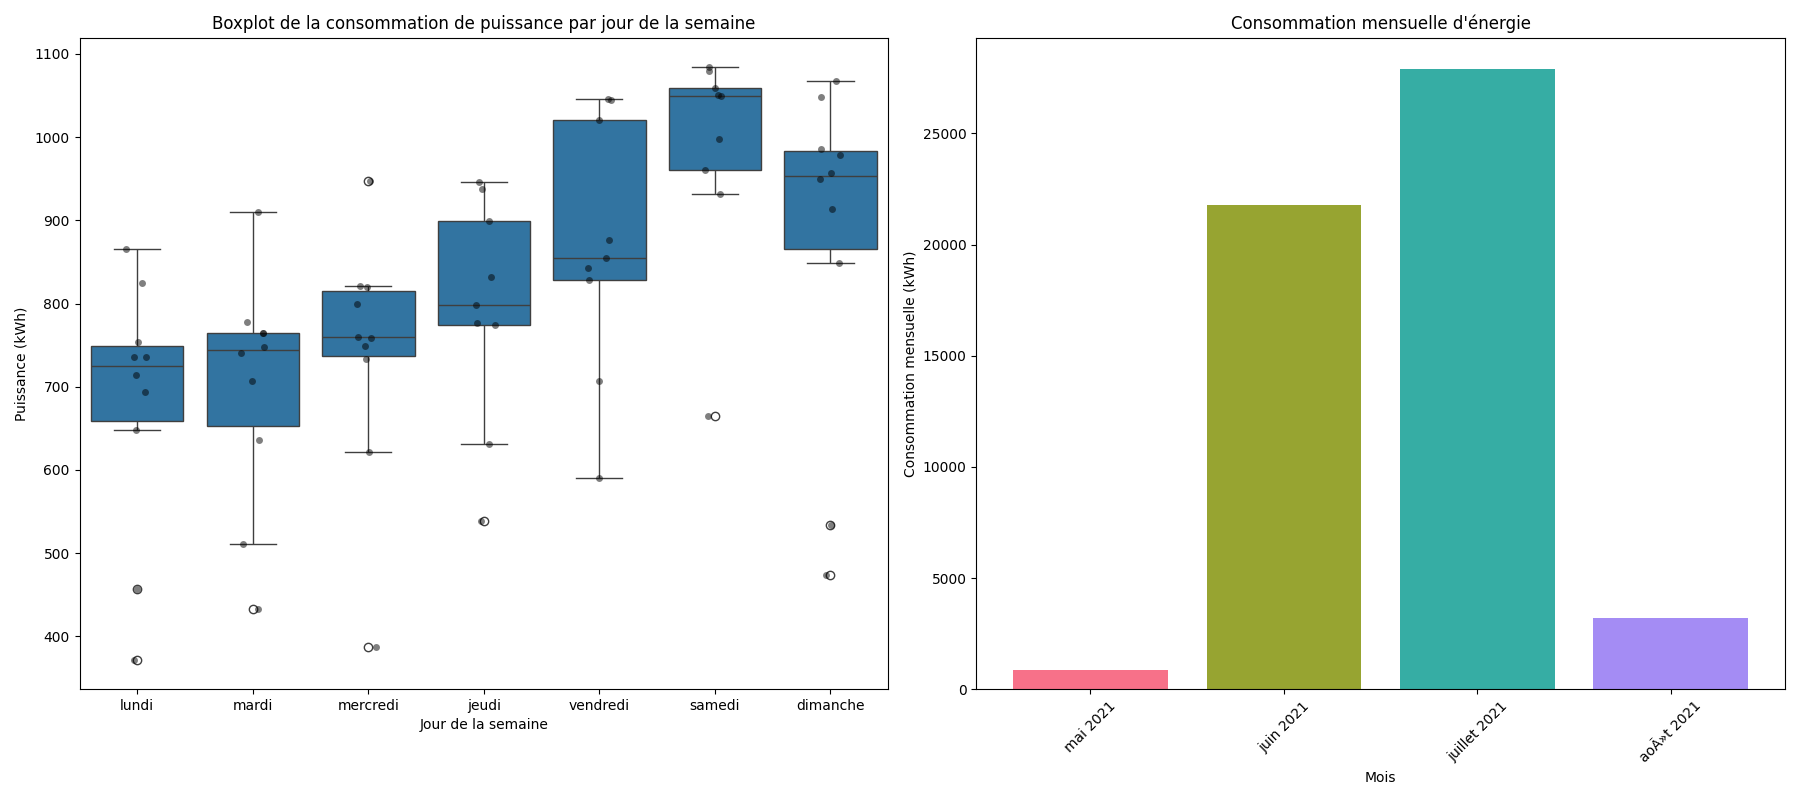
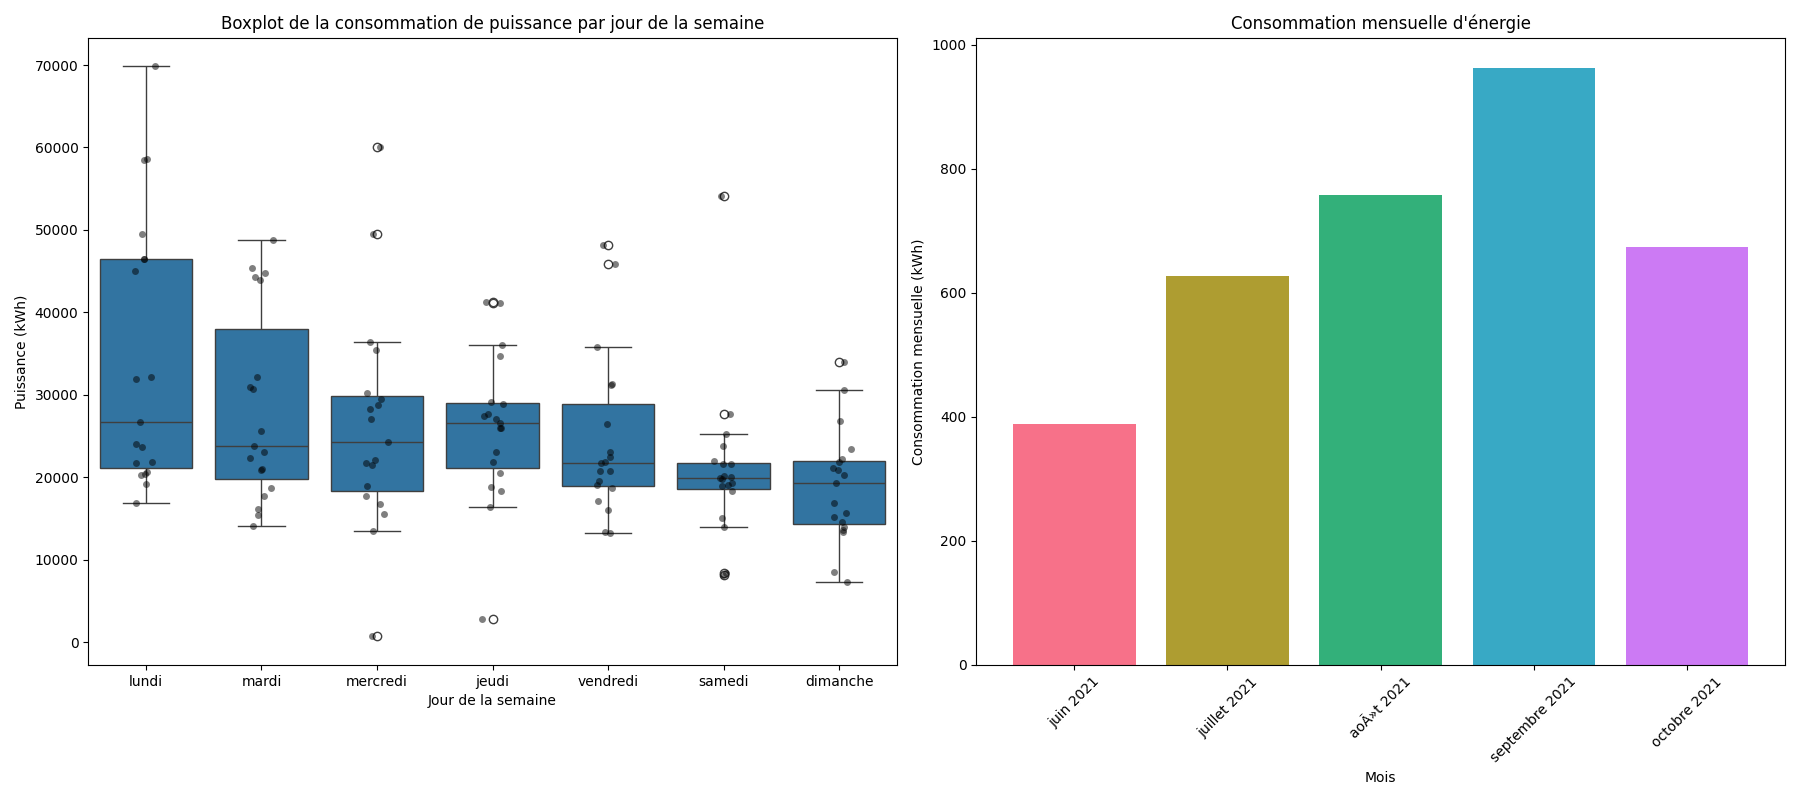
boxplot avec moyenne affichée en rouge

diff --git a/docu.html b/docu.html
@@ -11,7 +11,7 @@
 
 <meta name="author" content="Ilyas EL BOUJADAINI" />
 
-<meta name="date" content="2024-05-30" />
+<meta name="date" content="2024-06-07" />
 
 <title>Automatisation du traitement des courbes de charge électrique</title>
 
@@ -353,7 +353,7 @@ display: none;
 <h1 class="title toc-ignore">Automatisation du traitement des courbes de
 charge électrique</h1>
 <h4 class="author">Ilyas EL BOUJADAINI</h4>
-<h4 class="date">2024-05-30</h4>
+<h4 class="date">2024-06-07</h4>
 
 </div>
 
@@ -513,7 +513,7 @@ cd cdc</code></pre>
 <li>Appelez maintenant le script main.py et utilisez les arguments
 –input_csv et –timestep:</li>
 </ul>
-<pre class="bash"><code>python main.py --input_csv courbes_2023.csv --timestep 60</code></pre>
+<pre class="bash"><code>python clean_cdc.py --input_csv courbes_2023.csv --timestep 60</code></pre>
 </div>
 <div id="linux-2" class="section level3">
 <h3>Linux</h3>
@@ -530,7 +530,7 @@ cd cdc</code></pre>
 <li>Appelez maintenant le script main.py et utilisez les arguments
 –input_csv et –timestep:</li>
 </ul>
-<pre class="bash"><code>python main.py --input_csv courbes_2023.csv --timestep 60</code></pre>
+<pre class="bash"><code>python clean_cdc.py --input_csv courbes_2023.csv --timestep 60</code></pre>
 </div>
 <div id="résultats" class="section level3">
 <h3>Résultats</h3>
@@ -647,8 +647,8 @@ parent_dir = os.path.dirname(os.path.dirname(os.path.abspath(__file__)))
 tools_dir = os.path.join(parent_dir, &#39;tools&#39;)
 sys.path.append(tools_dir)
 import delimiter as dlmt</code></pre>
-<p>Ensuite, à l’aide du module sys, on importe le script delimiter.py
-qui détecte le séparateur du CSV étudié.</p>
+<p>Ensuite, à l’aide du module sys, on importe le script
+<code>delimiter.py</code> qui détecte le séparateur du CSV étudié.</p>
 <pre class="python"><code>entry_path = os.path.join(&#39;input&#39;, &#39;00_simulation_20min_const.csv&#39;)
 
 delimiter = dlmt.detect_delimiter(entry_path)

diff --git a/tools/plot.py b/tools/plot.py
@@ -3,35 +3,34 @@ import locale
 import matplotlib.pyplot as plt
 import seaborn as sns
 
-# Configuration locale pour les noms de jours en français
+# Locale configuration for French day names
 locale.setlocale(locale.LC_TIME, 'fr_FR.UTF-8')
 
-# Chargement et préparation des données
-file_name = 'output/Enedis_SGE_HDM_A0622Acleaned.csv'
+# Loading and preparing the data
+file_name = 'output/Enedis_SGE_HDM_A06GKIR0_cleaned.csv'
 data = pd.read_csv(file_name, sep=',')
 data['date'] = pd.to_datetime(data['date'])
-data['puissance_w'] /= 1000  # Convertir la puissance en kWh
 
-# Préparation des données hebdomadaires
+# Weekly data preparation
 data_week = data.groupby(data['date'].dt.date)['puissance_w'
                                                ].sum().reset_index()
 data_week['date'] = pd.to_datetime(data_week['date'])
 data_week['jour_semaine'] = data_week['date'].dt.strftime('%A')
+data_week['energie_kWh'] = data_week['puissance_w'] / 1000
 
-# Préparation des données mensuelles
+# Monthly data preparation
 data_month = data.groupby(data['date'].dt.to_period('M'))['puissance_w'
                                                           ].sum().reset_index()
 data_month['date'] = data_month['date'].dt.to_timestamp()
 data_month['mois'] = data_month['date'].dt.strftime('%B %Y')
-data_month['energie_kWh'] = data_month['puissance_w']
+data_month['energie_kWh'] = data_month['puissance_w'] / 1000
 
 palette = sns.color_palette("husl", len(data_month))
 
-# Création de la figure avec deux sous-graphiques
+# Creation of the figure and the subplots
 fig, axes = plt.subplots(1, 2, figsize=(18, 8))
 
-# Sous-graphique 1 : Boxplot de la consommation de puissance
-# par jour de la semaine
+# Subplot 1 : power consumption boxplot per day of the week
 sns.boxplot(ax=axes[0], x='jour_semaine', y='puissance_w', data=data_week,
             order=['lundi', 'mardi', 'mercredi', 'jeudi', 'vendredi', 'samedi',
                    'dimanche'])
@@ -44,16 +43,16 @@ axes[0].set_ylabel('Puissance (kWh)')
 axes[0].set_title('Boxplot de la consommation de puissance par jour de '
                   'la semaine')
 
-# Sous-graphique 2 : Diagramme en barres de la consommation mensuelle
+# Subplot 2 : monthly energy consumption barplot
 axes[1].bar(data_month['mois'], data_month['energie_kWh'], color=palette)
 axes[1].set_xlabel('Mois')
 axes[1].set_ylabel('Consommation mensuelle (kWh)')
 axes[1].set_title('Consommation mensuelle d\'énergie')
 axes[1].tick_params(axis='x', rotation=45)
 
-# Ajuster l'espacement entre les sous-graphiques
+# Adjust the layout
 plt.tight_layout()
 
-# Afficher la figure
+# Save and show the figure
 plt.savefig('plots/A06GKIR0_combined.png')
 plt.show()

diff --git a/clean_cdc.py b/clean_cdc.py
@@ -5,6 +5,7 @@ import sys
 import pandas as pd
 import argparse
 import locale
+import re
 
 locale.setlocale(locale.LC_TIME, 'fr_FR.UTF-8')
 
@@ -16,15 +17,13 @@ import delimiter as dlmt  # type: ignore
 
 
 def main(file_name: str, timestep: int):
-    entry_path = os.path.join('input', file_name)
-    delimiter = dlmt.detect_delimiter(entry_path)
-    data = pd.read_csv(entry_path, sep=delimiter, header=2)
+    delimiter = dlmt.detect_delimiter(file_name)
+    data = pd.read_csv(file_name, sep=delimiter, header=2)
     data['date'] = pd.to_datetime(data['Horodate'].str.split('+').str[0],
                                   format="%Y-%m-%dT%H:%M:%S")
     del data['Horodate']
     data['puissance_w'] = data['Valeur']
     del data['Valeur']
-    data['type_valeur'] = 'Mesurée'
 
     # We call the main function, verify the time step between each
     # data point and export the final result in a csv file
@@ -40,7 +39,12 @@ def main(file_name: str, timestep: int):
                                  != data_corrected['pas_temps'].shift()]
     print('Le tableau suivant montre si il y a une variation du pas temporel')
     print(step_change, '\n\n\n')
-    exit_path = os.path.join('output', file_name[:-4] + '_cleaned' + '.csv')
+
+    pattern = r'(Enedis.*?\.csv)'
+    match = re.search(pattern, file_name)
+    result = match.group(1)
+    exit_path = os.path.join('output', result[:-4] + '_cleaned.csv')
+
     data_corrected.to_csv(exit_path, sep=',', index=False)
     print('Le fichier', file_name + '_cleaned.csv a été exporté dans output')
 

diff --git a/scripts/20_real_data_correction_irregular_step.py b/scripts/20_real_data_correction_irregular_step.py
@@ -16,13 +16,14 @@ tools_dir = os.path.join(parent_dir, 'tools')
 sys.path.append(tools_dir)
 import correction as crct  # type: ignore
 import delimiter as dlmt  # type: ignore
+import file_name as fn  # type: ignore
 
 
 # Initializes the path to the csv file, adapting it to the user's OS
-file_name = 'Enedis_SGE_HDM_A0622A0E.csv'
+file_name = r'C:\Users\ily_y\OneDrive\Bureau\L3 MIASHS\stage\cdc\input\Enedis_SGE_HDM_A06GKIR0.csv'
 
-delimiter = dlmt.detect_delimiter('input/' + file_name)
-data = pd.read_csv('input/' + file_name, sep=delimiter, header=2)
+delimiter = dlmt.detect_delimiter(file_name)
+data = pd.read_csv(file_name, sep=delimiter, header=2)
 data['date'] = pd.to_datetime(data['Horodate'].str.split('+').str[0],
                               format="%Y-%m-%dT%H:%M:%S")
 del data['Horodate']
@@ -39,5 +40,5 @@ data_corrected['pas_temps'] = [0] + (data_corrected['date'].diff()
 step_change = data_corrected[data_corrected['pas_temps'] != data_corrected[
     'pas_temps'].shift()]
 print(step_change)
-exit_path = os.path.join('output', file_name[:-4] + '_cleaned.csv')
+exit_path = fn.exit_file_name(file_name)
 data_corrected.to_csv(exit_path, sep=',', index=False)

diff --git a/tools/file_name.py b/tools/file_name.py
@@ -1,0 +1,19 @@
+import re
+import os
+
+
+def exit_file_name(file_name: str):
+
+    # Expression régulière pour capturer tout ce qui est entre "Enedis" et
+    # ".csv", inclusivement
+    pattern = r'(Enedis.*?\.csv)'
+
+    # Recherche de la correspondance dans la chaîne
+    match = re.search(pattern, file_name)
+
+    if match:
+        result = match.group(1)
+        exit_path = os.path.join('output', result[:-4] + '_cleaned.csv')
+        return exit_path
+    else:
+        return 'No match found'
